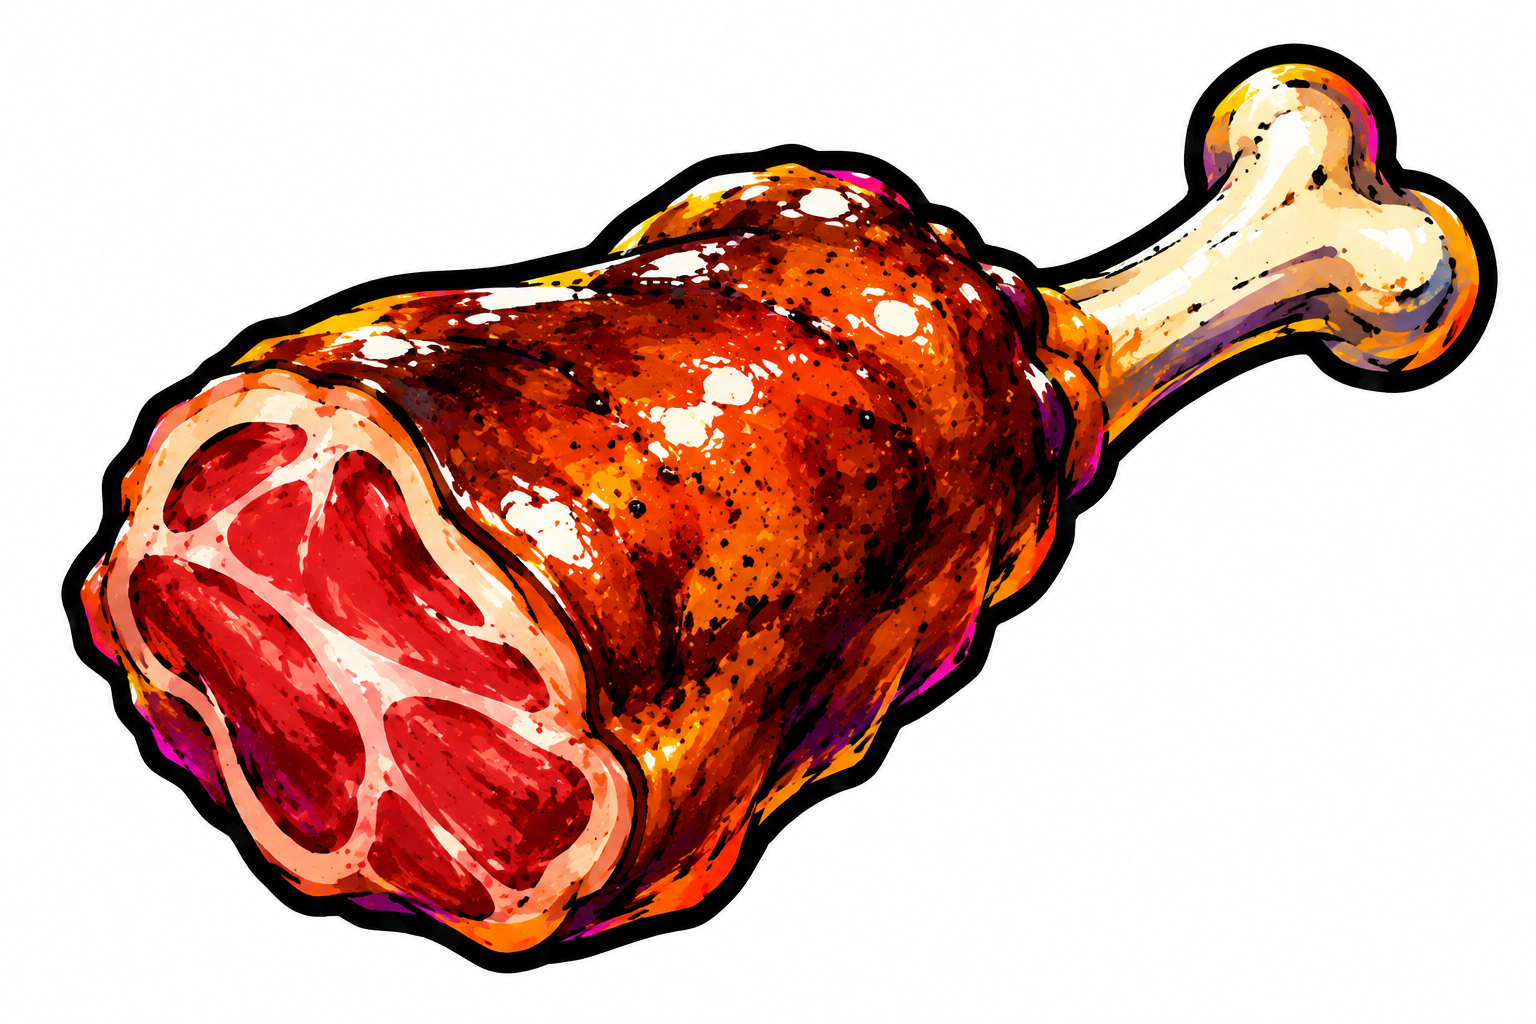
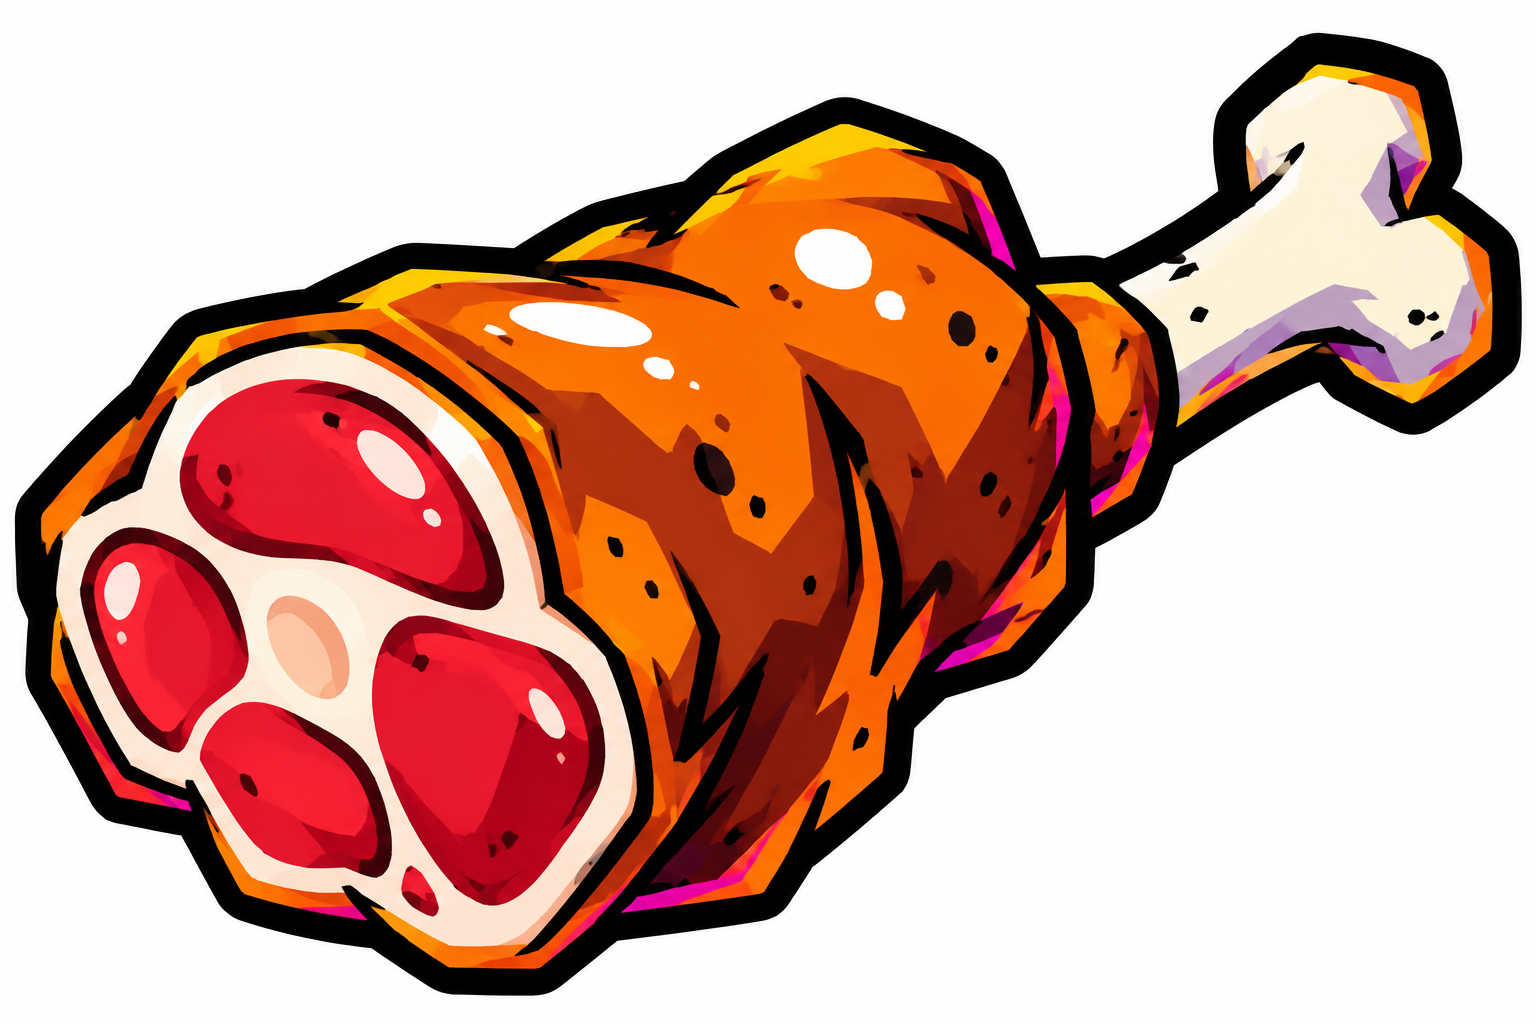
Use the planner's new meat picture for feeding (old one kept as meat_v1.png)
Claude-Session: https://claude.ai/code/session_01MXithgTc5umkveoyZShZHQ

diff --git a/docs/PROPOSAL.md b/docs/PROPOSAL.md
@@ -465,7 +465,7 @@ monz/
   - 下：ごはん・なでる（今までの動き）、設定（音の設定）、ミニゲーム・バトル・ショップ（じゅんび中）。アイコンとコインは企画者の画像（`design/home/icons.png` を `make_icons.py` で切り分け）。
   - テスト用ボタン：最初から・誕生をもう一度・+10コイン。
 - 変更（2026-10-19 企画者の指示）：お世話画面の場所は、いちばん最初に1回だけ「部屋・路地裏・ガレージ」からランダムで決め、そのあとはずっと同じ場所（`monz:life` に保存）。テスト用「最初から」・`?reset` で決め直す。
-- 変更（2026-10-19 企画者の指示）：ごはんは骨付き肉（企画者の絵 `design/home/meat.png` を `make_meat.py` で切り抜き）。ひとくちごとに肉の切り口からかじった跡が増え、最後は消える。
+- 変更（2026-10-19 企画者の指示）：ごはんは骨付き肉（企画者の絵 `design/home/meat.png` を `make_meat.py` で切り抜き。2026-10-20 新しい絵に差しかえ、前の絵は `meat_v1.png`）。ひとくちごとに肉の切り口からかじった跡が増え、最後は消える。
 - 決定（2026-10-19）：画面に出る英語（TAP TO START・SOON・Lv.・NEW MONZ・FRESH OUT THE EGG など）はそのままでよい。
 - 変更（2026-10-19 企画者の指示）：左右反転したとき、目は反転させない。顔のまん中の線で体を反転し、元画像から切り抜いた元の向きの目（と表情の顔）を上に重ねる（`src/render/bunkView.ts` の `mirrored`）。
 
